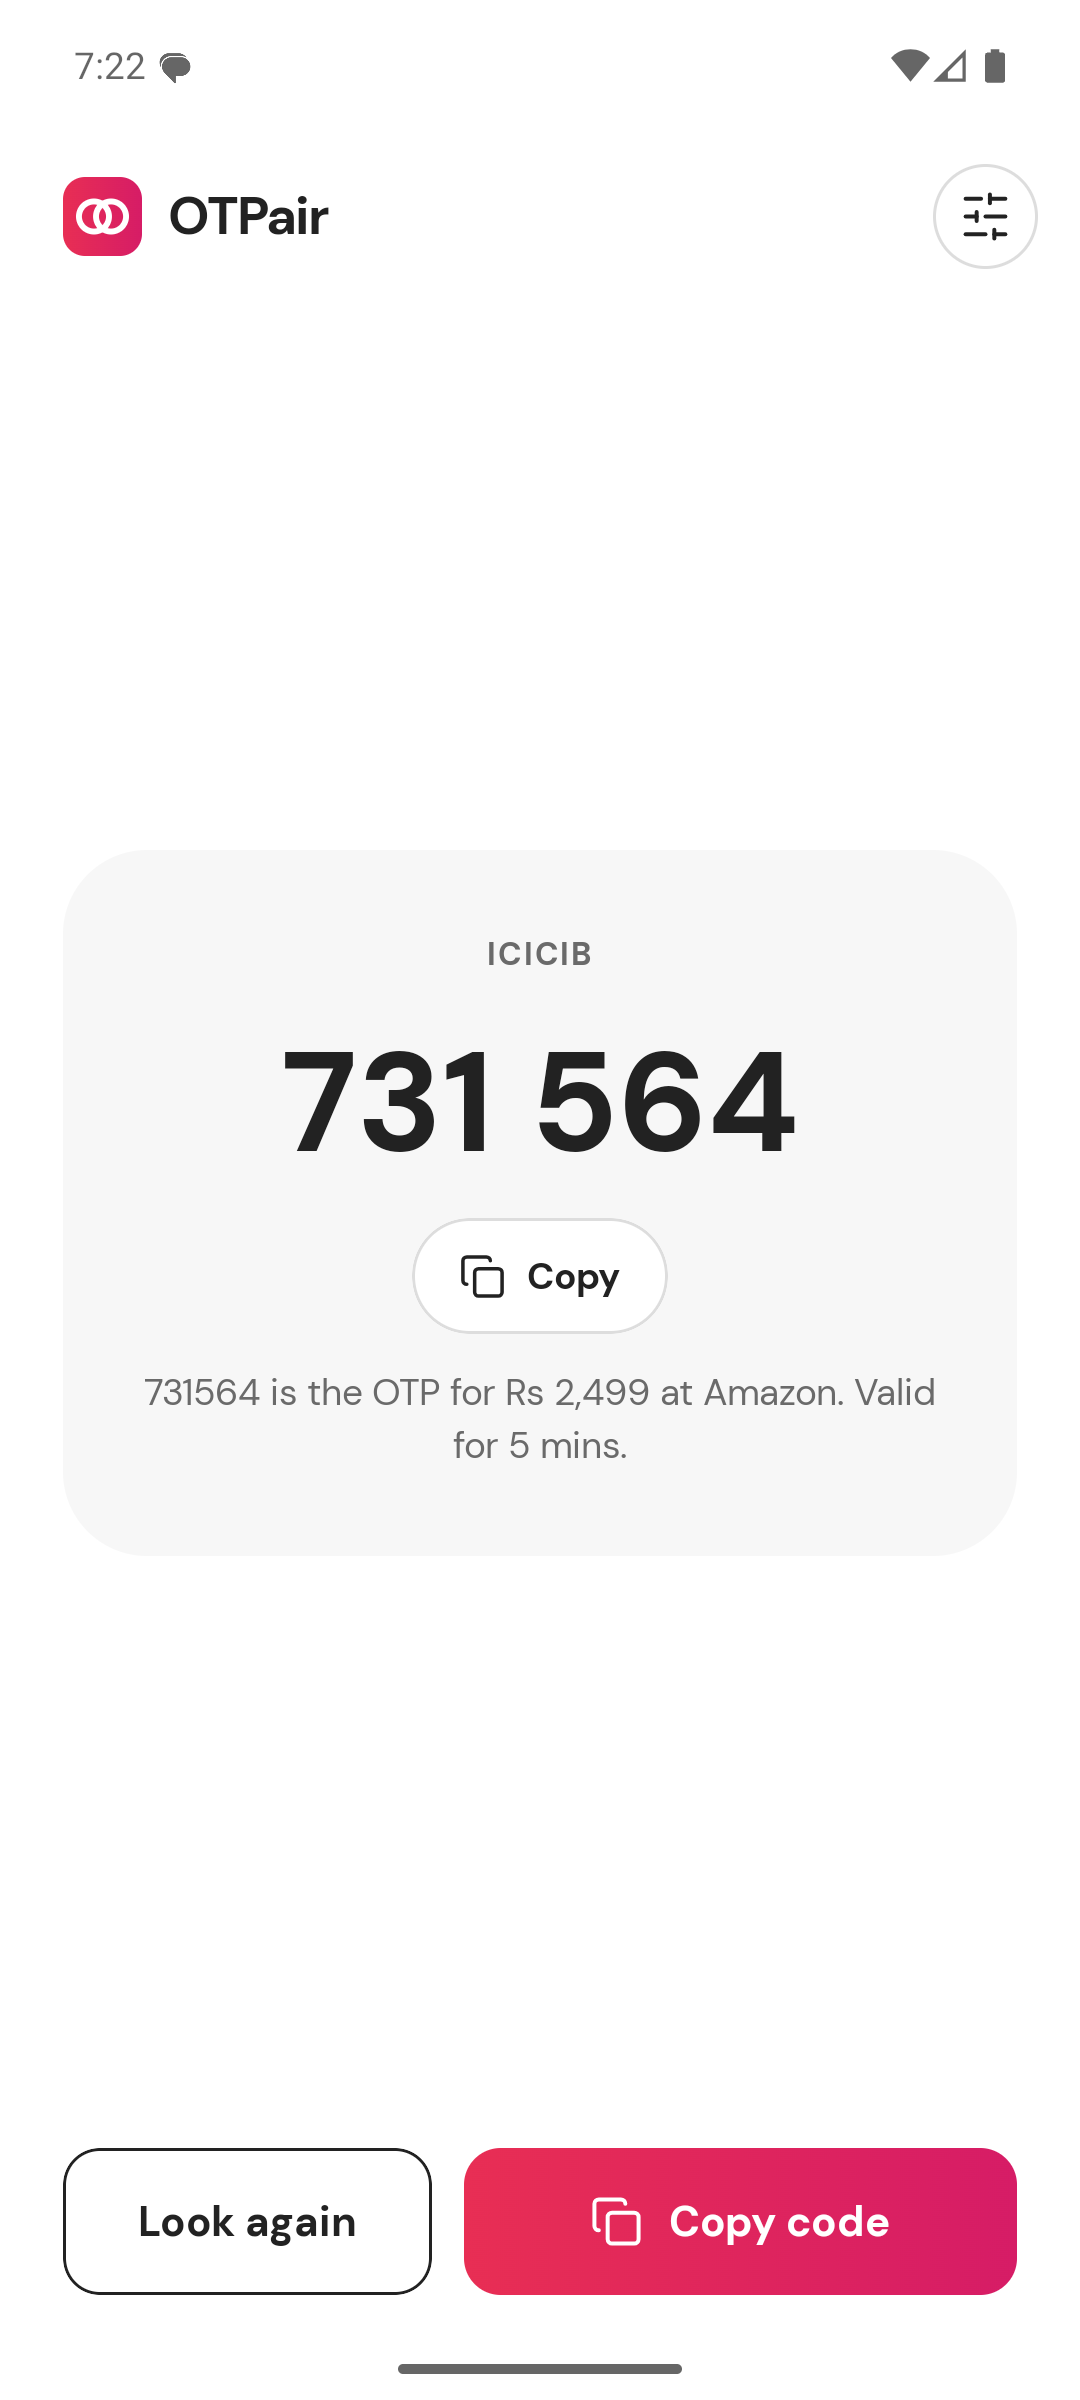
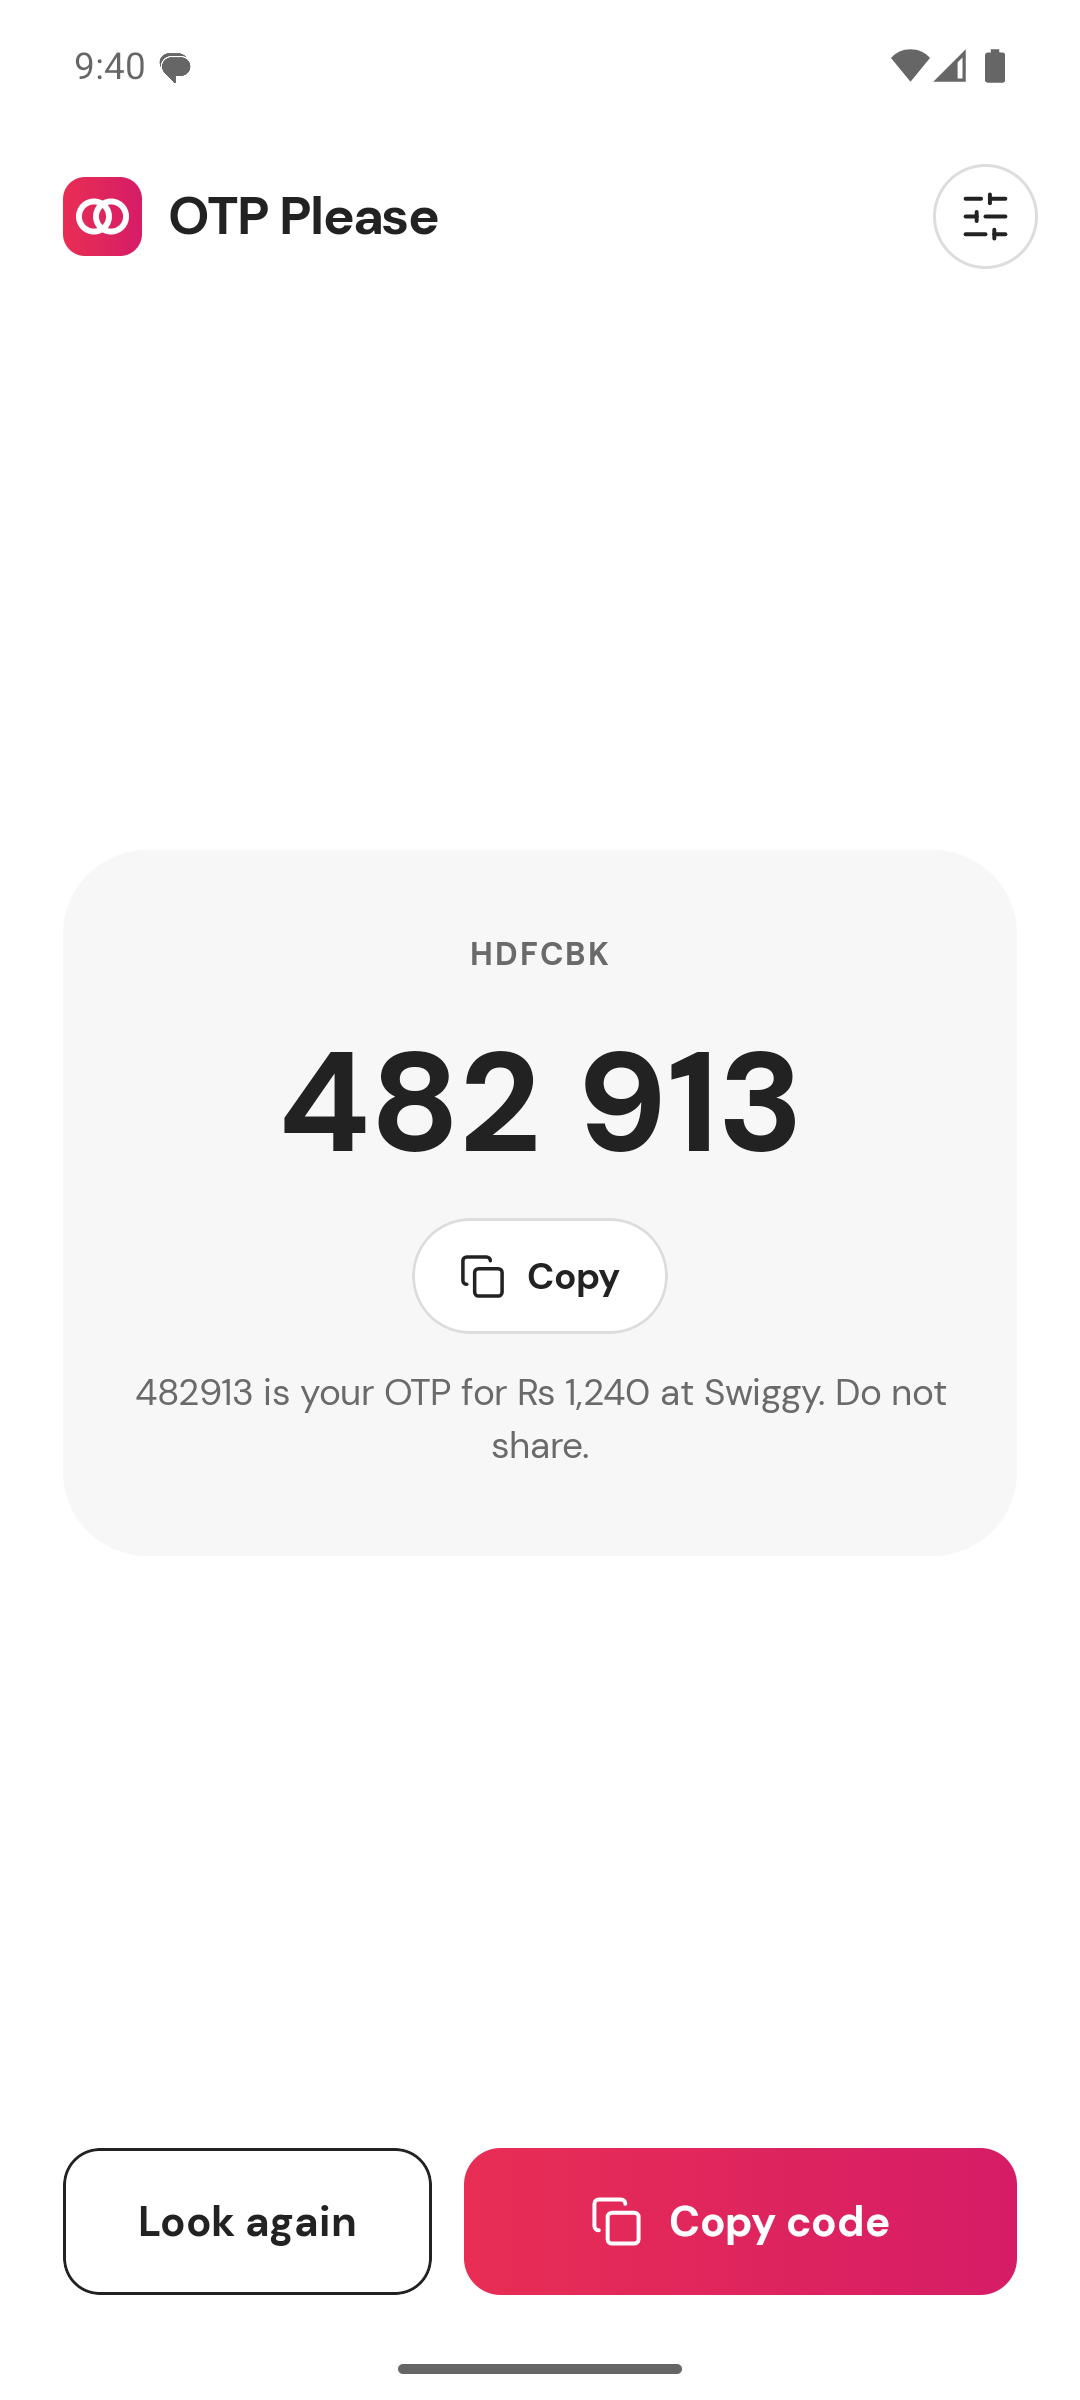
Rename the app to OTP Please
OTPair was hard to say. Only the visible name changes: the package id,
pairing formats and key alias stay, so installed phones update in place
and stay paired. README screenshots retaken with the new name.

diff --git a/src/main/kotlin/co/atomiclabs/otpair/Pairing.kt b/src/main/kotlin/co/atomiclabs/otpair/Pairing.kt
@@ -169,7 +169,7 @@ internal fun ShowCode(store: Store, onPaired: (Link) -> Unit, onBack: () -> Unit
         Spacer(Modifier.height(12.dp))
         T("Scan this from your partner’s phone", Type.title)
         Spacer(Modifier.height(10.dp))
-        T("Open OTPair there and tap Scan partner’s code.", Type.body, color = look.soft)
+        T("Open OTP Please there and tap Scan partner’s code.", Type.body, color = look.soft)
         Spacer(Modifier.height(28.dp))
 
         val card = RoundedCornerShape(32.dp)
@@ -294,7 +294,7 @@ internal fun Scanner(store: Store, resumes: Int, onPaired: (Link) -> Unit, onBac
         if (busy) return
         val theirs = Pairing.scan(text)
         if (theirs == null) {
-            hint = "That isn’t an OTPair code. Scan the one inside OTPair on the other phone."
+            hint = "That isn’t an OTP Please code. Scan the one inside OTP Please on the other phone."
             return
         }
         busy = true
@@ -313,7 +313,7 @@ internal fun Scanner(store: Store, resumes: Int, onPaired: (Link) -> Unit, onBac
             when {
                 answered -> onPaired(link!!)
                 sent -> hint = "That code didn’t pair. Ask your partner to go back and show a new one."
-                link == null -> hint = "That isn’t an OTPair code. Scan the one inside OTPair on the other phone."
+                link == null -> hint = "That isn’t an OTP Please code. Scan the one inside OTP Please on the other phone."
                 else -> hint = "Couldn’t connect. Check your internet and scan again."
             }
             busy = false
@@ -338,7 +338,7 @@ internal fun Scanner(store: Store, resumes: Int, onPaired: (Link) -> Unit, onBac
             Spacer(Modifier.weight(0.5f))
             T("Scan your partner’s code", Type.title, color = Color.White, align = TextAlign.Center)
             Spacer(Modifier.height(8.dp))
-            T("Ask them to open OTPair and tap Show my code.", Type.body, color = Color(0xCCFFFFFF), align = TextAlign.Center)
+            T("Ask them to open OTP Please and tap Show my code.", Type.body, color = Color(0xCCFFFFFF), align = TextAlign.Center)
             Spacer(Modifier.height(32.dp))
 
             Box(
@@ -362,7 +362,7 @@ internal fun Scanner(store: Store, resumes: Int, onPaired: (Link) -> Unit, onBac
                     !granted -> Column(Modifier.padding(horizontal = 28.dp), horizontalAlignment = Alignment.CenterHorizontally) {
                         Icon(Glyph.Camera, null, Modifier.size(32.dp), Color.White)
                         Spacer(Modifier.height(16.dp))
-                        T("The camera is off for OTPair", Type.bodyStrong, color = Color.White, align = TextAlign.Center)
+                        T("The camera is off for OTP Please", Type.bodyStrong, color = Color.White, align = TextAlign.Center)
                         Spacer(Modifier.height(4.dp))
                         T("Allow it in settings to scan the code.", Type.small, color = Color(0xB3FFFFFF), align = TextAlign.Center)
                         Spacer(Modifier.height(20.dp))
@@ -466,7 +466,7 @@ internal fun PairedSetup(store: Store, link: Link, onDone: () -> Unit) {
             Spacer(Modifier.height(16.dp))
             Choice(
                 Glyph.Message, "Yes, they come here",
-                "Share them with your partner. Android will ask to let OTPair see your messages and notify you.",
+                "Share them with your partner. Android will ask to let OTP Please see your messages and notify you.",
                 shares == true,
             ) { shares = true }
             Spacer(Modifier.height(12.dp))

diff --git a/src/main/kotlin/co/atomiclabs/otpair/Home.kt b/src/main/kotlin/co/atomiclabs/otpair/Home.kt
@@ -154,7 +154,7 @@ internal fun Home(store: Store, link: Link, resumes: Int, onUnpair: () -> Unit) 
                 var misses = 0
                 while (true) {
                     // Android cuts an app's internet soon after it leaves the screen (she switched to the
-                    // bank page), so wait here until OTPair is in front again.
+                    // bank page), so wait here until OTP Please is in front again.
                     lifecycle.withResumed { }
                     val began = SystemClock.elapsedRealtime()
                     if (done || began >= end && !dropped) break
@@ -204,7 +204,7 @@ internal fun Home(store: Store, link: Link, resumes: Int, onUnpair: () -> Unit) 
                 throw e
             } catch (e: Exception) {
                 // Only the kind of error: its text can carry the relay address of this pair.
-                Log.w("OTPair", "asking for a code failed: ${e.javaClass.simpleName}")
+                Log.w("OtpPlease", "asking for a code failed: ${e.javaClass.simpleName}")
                 offline = true
             } finally {
                 clock.cancel()
@@ -253,7 +253,7 @@ internal fun Home(store: Store, link: Link, resumes: Int, onUnpair: () -> Unit) 
         Row(Modifier.fillMaxWidth().height(64.dp).padding(start = 24.dp, end = 12.dp), verticalAlignment = Alignment.CenterVertically) {
             Logo(30.dp)
             Spacer(Modifier.width(10.dp))
-            T("OTPair", Type.heading)
+            T("OTP Please", Type.heading)
             Spacer(Modifier.weight(1f))
             CircleButton(Glyph.Settings, "Settings") { settings = true }
         }
@@ -312,7 +312,7 @@ internal fun Home(store: Store, link: Link, resumes: Int, onUnpair: () -> Unit) 
             LockRow(store, resumes)
             if (sharer && !context.getSystemService(PowerManager::class.java).isIgnoringBatteryOptimizations(context.packageName)) {
                 Hairline()
-                SettingRow(Glyph.Bolt, "Keep sharing reliable", "Let OTPair run in the background, or codes can stop coming through.", onClick = {
+                SettingRow(Glyph.Bolt, "Keep sharing reliable", "Let OTP Please run in the background, or codes can stop coming through.", onClick = {
                     @Suppress("BatteryLife") // sideloaded by design; receiving texts in the background is the app's whole job
                     context.startActivity(Intent(Settings.ACTION_REQUEST_IGNORE_BATTERY_OPTIMIZATIONS, Uri.parse("package:${context.packageName}")))
                 }) {
@@ -498,7 +498,7 @@ private fun Countdown(left: Int, total: Int) {
     }
 }
 
-private const val CLIP = "OTPair code"
+private const val CLIP = "OTP Please code"
 
 /** Takes the code off the clipboard, unless something else has been copied since. */
 private fun forgetCode(context: Context) {

diff --git a/src/main/kotlin/co/atomiclabs/otpair/Relay.kt b/src/main/kotlin/co/atomiclabs/otpair/Relay.kt
@@ -288,7 +288,7 @@ class Decision : BroadcastReceiver() {
                         if (send) store.lastShared = msg.at to msg.sender
                     }
                 } catch (e: Exception) {
-                    Log.w("OTPair", "answering the request failed: ${e.javaClass.simpleName}")
+                    Log.w("OtpPlease", "answering the request failed: ${e.javaClass.simpleName}")
                 } finally {
                     then()
                 }
@@ -356,7 +356,7 @@ class ShareJob : JobService() {
                             try {
                                 Relay.publish(link, Msg("asking", store.deviceId))
                             } catch (e: IOException) {
-                                Log.w("OTPair", "telling the partner failed: ${e.javaClass.simpleName}")
+                                Log.w("OtpPlease", "telling the partner failed: ${e.javaClass.simpleName}")
                             }
                         }
                         break
@@ -364,7 +364,7 @@ class ShareJob : JobService() {
                         throw e
                     } catch (e: Exception) {
                         // Only the kind of error: its text can carry the relay address of this pair.
-                        Log.w("OTPair", "waiting for the partner to ask: ${e.javaClass.simpleName}")
+                        Log.w("OtpPlease", "waiting for the partner to ask: ${e.javaClass.simpleName}")
                         delay(1500) // offline or the stream dropped: keep waiting out the minute
                     }
                 }

diff --git a/src/main/kotlin/co/atomiclabs/otpair/Core.kt b/src/main/kotlin/co/atomiclabs/otpair/Core.kt
@@ -88,7 +88,7 @@ class Pairing private constructor(private val keys: KeyPair) {
 
         fun new() = Pairing(KeyPairGenerator.getInstance("EC").apply { initialize(ECGenParameterSpec("secp256r1")) }.generateKeyPair())
 
-        /** The other phone's public key from scanned QR text. Null for anything that isn't an OTPair code. */
+        /** The other phone's public key from scanned QR text. Null for anything that isn't an OTP Please code. */
         fun scan(text: String): ByteArray? = text.trim().takeIf { it.startsWith(QR) }?.let { key(it.removePrefix(QR)) }
 
         /** A public key as sent in a hello. Null when it isn't one. */
@@ -144,7 +144,7 @@ class Link(private val secret: ByteArray) {
     companion object {
         private const val PREFIX = "otpair1:"
 
-        /** Null for anything that isn't a stored OTPair secret. */
+        /** Null for anything that isn't a stored OTP Please secret. */
         fun decode(text: String): Link? = try {
             text.trim().takeIf { it.startsWith(PREFIX) }
                 ?.let { Base64.getUrlDecoder().decode(it.removePrefix(PREFIX)) }

diff --git a/src/main/kotlin/co/atomiclabs/otpair/Onboarding.kt b/src/main/kotlin/co/atomiclabs/otpair/Onboarding.kt
@@ -95,7 +95,7 @@ internal fun Onboarding(skipIntro: Boolean, onShow: () -> Unit, onScan: () -> Un
         Row(Modifier.fillMaxWidth().height(64.dp).padding(horizontal = 24.dp), verticalAlignment = Alignment.CenterVertically) {
             Logo(30.dp)
             Spacer(Modifier.width(10.dp))
-            T("OTPair", Type.heading)
+            T("OTP Please", Type.heading)
             Spacer(Modifier.weight(1f))
             Dots(pager.currentPage)
         }

diff --git a/README.md b/README.md
@@ -1,6 +1,6 @@
-# OTPair
+# OTP Please
 
-**Never wait for an OTP again.** OTPair pairs two Android phones so that either person can get the other's one-time codes with one tap.
+**Never wait for an OTP again.** OTP Please pairs two Android phones so that either person can get the other's one-time codes with one tap.
 
 It is built for couples and families who share cards: the card is in one person's name, the OTP lands on that person's phone, and the other person is stuck at checkout waiting for it.
 
@@ -22,7 +22,7 @@ Once paired, each phone shows only its job: the sharing phone says **Sharing is 
 
 **A code leaves the phone only when your partner asks for it and you say yes.** Under the hood:
 
-- When a text message arrives, Android wakes OTPair. If the message looks like an OTP, the app holds the code on the phone for one minute and watches for a request from the paired phone. Messages that are not OTPs are ignored.
+- When a text message arrives, Android wakes OTP Please. If the message looks like an OTP, the app holds the code on the phone for one minute and watches for a request from the paired phone. Messages that are not OTPs are ignored.
 - Tapping **Get OTP** sends that request. If nobody asks within the minute, the code is forgotten and nothing is sent, and the sharing phone stays silent.
 - When the request and a code meet, the sharing phone rings like an incoming call: "Your partner is asking for a code", with the message text so you can check the amount and the shop. If the screen is off or locked, a full-screen **Send this code?** page takes over the display. It keeps ringing until you answer, for up to three minutes.
 - Only after **Send** does the phone encrypt the code (AES-256-GCM) and send it. Send needs the phone unlocked. **Don’t send** tells the other phone "not sent" and nothing else.
@@ -33,13 +33,13 @@ There is no account, no server to run, and no analytics.
 
 ## Install
 
-OTPair is not on the Play Store. Google allows apps to read text messages only by special exception, so you build it and install the APK yourself, on both phones.
+OTP Please is not on the Play Store. Google allows apps to read text messages only by special exception, so you build it and install the APK yourself, on both phones.
 
 ```bash
 ./gradlew assembleRelease
 ```
 
-The APK is written to `build/outputs/apk/release/otpair-release.apk`. Building needs JDK 17 or 21 and the Android SDK (platform 36).
+The APK is written to `build/outputs/apk/release/otp-please-release.apk`. Building needs JDK 17 or 21 and the Android SDK (platform 36).
 
 On the phone that will **share** its codes, allow notifications when the app asks. If the app says so, also let it show full-screen notifications, so a request can take over the screen like a call. Android also adds one hurdle for apps installed outside the Play Store. If the SMS permission is refused, the app walks you through it:
 
@@ -47,7 +47,7 @@ On the phone that will **share** its codes, allow notifications when the app ask
 2. Tap **⋮** at the top right, then **Allow restricted settings**.
 3. Open **Permissions → SMS → Allow**.
 
-Also let the app run in the background when it asks. On Xiaomi, Vivo, iQOO, Oppo, OnePlus and some Samsung phones, additionally enable **Autostart** (or set battery use to **Unrestricted**) for OTPair, or the phone may stop it from waking up.
+Also let the app run in the background when it asks. On Xiaomi, Vivo, iQOO, Oppo, OnePlus and some Samsung phones, additionally enable **Autostart** (or set battery use to **Unrestricted**) for OTP Please, or the phone may stop it from waking up.
 
 ## Security, honestly
 
@@ -58,22 +58,22 @@ Also let the app run in the background when it asks. On Xiaomi, Vivo, iQOO, Oppo
 - **Get OTP is locked.** By default it asks for a fingerprint, face or the phone's PIN (Android 9 or newer, on a phone with a screen lock), so someone who picks up the unlocked phone cannot pull a code. You can turn this off in Settings.
 - **Only codes that were asked for ever reach the relay.** They stay there encrypted for about 12 hours, then expire. Old messages played back are ignored: every message carries the time it was written and is refused after three minutes.
 - **The secret is encrypted on the phone** with a key held in the Android Keystore, and is excluded from cloud backups and phone-to-phone transfers. A rooted or compromised phone could still use it.
-- **A copied code is cleared from the clipboard after a minute**, if OTPair is still open.
+- **A copied code is cleared from the clipboard after a minute**, if OTP Please is still open.
 - **Your partner sees the full text of each OTP message**, not just the code, so they can check the amount and merchant.
 - **Your partner can ask for any OTP, from any sender**, but each one still needs your Send.
-- Banks tell you never to share OTPs. OTPair is for people who have already decided to share a card with one person they trust completely. Do not pair with anyone else, and never install it on someone's phone without their knowledge.
+- Banks tell you never to share OTPs. OTP Please is for people who have already decided to share a card with one person they trust completely. Do not pair with anyone else, and never install it on someone's phone without their knowledge.
 
 ## Limits
 
 - **The sharing phone has to be with someone.** If nobody taps Send within three minutes, no code is sent. Do Not Disturb can silence the ringing.
-- **Keep OTPair open while you wait.** Android cuts an app's internet shortly after it leaves the screen. If you switch to the bank page and come back, OTPair picks the code up as soon as it is in front again.
+- **Keep OTP Please open while you wait.** Android cuts an app's internet shortly after it leaves the screen. If you switch to the bank page and come back, OTP Please picks the code up as soon as it is in front again.
 - **Both phones need roughly the right time.** Messages more than three minutes off are refused. Phones set to automatic time are fine.
 - **The sharing phone needs Android 12 or newer to be dependable.** Older versions can delay the one-minute watch when the phone is dozing.
 - **Text messages only.** Codes sent over RCS chat, WhatsApp or email are not picked up.
 - **The relay is someone else's free service.** If ntfy.sh is down, sharing pauses. To use your own ntfy server, change `BASE` in [`Relay.kt`](src/main/kotlin/co/atomiclabs/otpair/Relay.kt).
 - **OTP detection is a heuristic** tuned on Indian bank messages (a keyword such as "OTP" or "code", plus the nearest 4 to 8 digit number). Unusual formats may be missed; add a case to [`CoreTest.kt`](src/test/kotlin/co/atomiclabs/otpair/CoreTest.kt) and adjust `Otp` in [`Core.kt`](src/main/kotlin/co/atomiclabs/otpair/Core.kt).
 - **Do not raise `targetSdk` above 36.** On Android 17, apps that target API 37 or higher receive OTP messages three hours late.
-- Android's permission prompt says "send and view SMS messages". OTPair only asks for the receive permission and cannot send texts; the wording is Android's label for the whole SMS group.
+- Android's permission prompt says "send and view SMS messages". OTP Please only asks for the receive permission and cannot send texts; the wording is Android's label for the whole SMS group.
 
 ## Publishing a build
 
